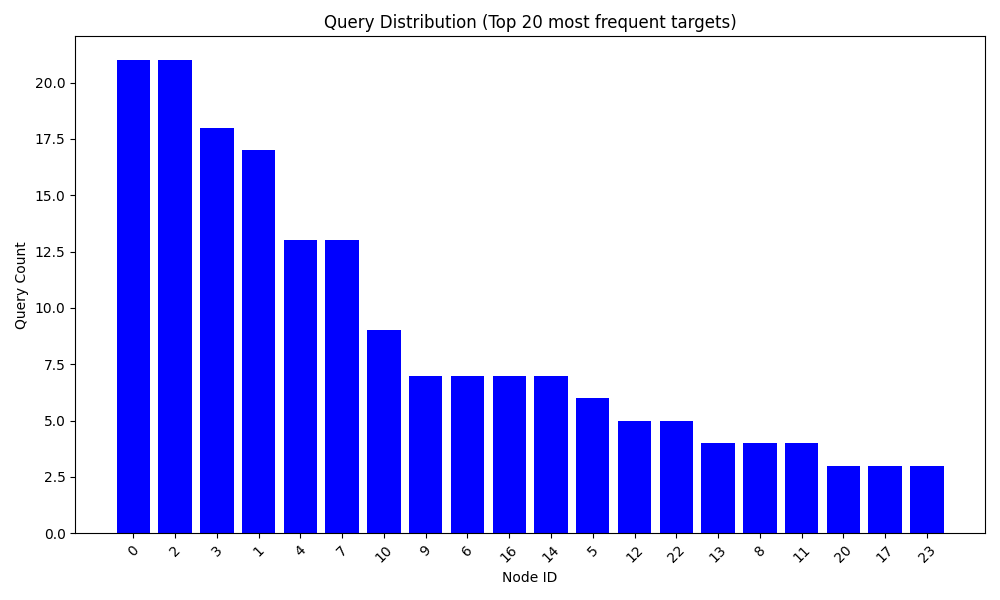
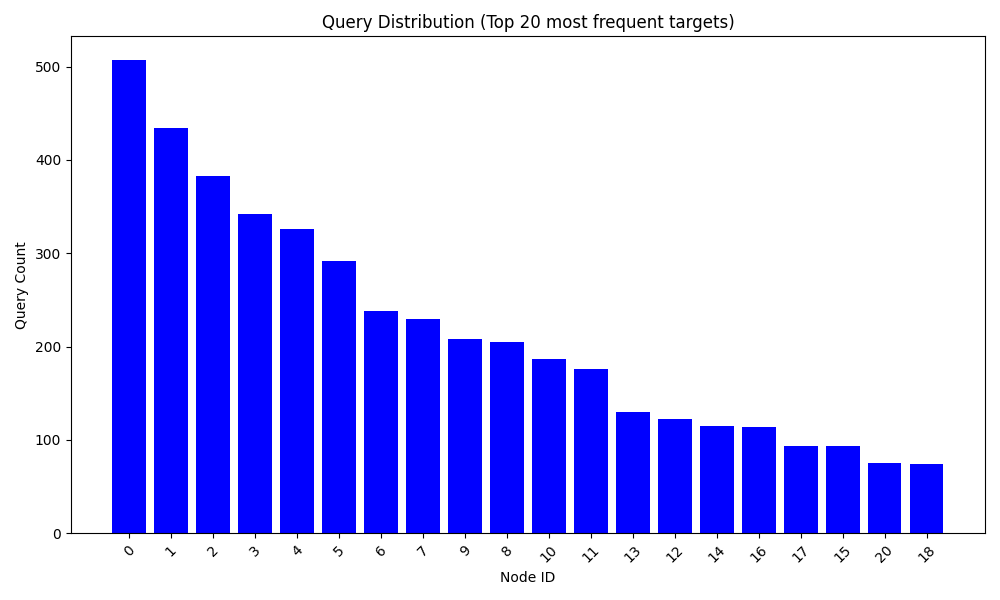
5000 queries when testing graph. added backsteps for nodes > 50

diff --git a/bogoDB/candidate_submission/optimize_graph.py b/bogoDB/candidate_submission/optimize_graph.py
@@ -100,8 +100,11 @@ def optimize_graph(
     # TODO: Implement your optimization strategy here
 
     for node, edges in initial_graph.items():
+        # This is the node next in the line
         next_node = (int(node) + 1) % 500
         new_edge = {next_node: 1}
+        if next_node != 0 and int(node) > 50:
+            new_edge[0] = 0.4
         optimized_graph[node] = new_edge
     # =============================================================
     #

diff --git a/bogoDB/scripts/constants.py b/bogoDB/scripts/constants.py
@@ -14,7 +14,7 @@ MAX_EDGES_PER_NODE = 3
 MAX_TOTAL_EDGES = 2 * NUM_NODES
 
 # Query parameters
-NUM_QUERIES = 200
+NUM_QUERIES = 5000
 LAMBDA_PARAM = 0.1
 MAX_DEPTH = 10000
 

diff --git a/solution.md b/solution.md
@@ -5,7 +5,8 @@
 
 [Describe how you analyzed the query patterns and what insights you found]
 
-latex test $\int_0^1$
+generate_initial_data.py gives the distribution of queries which is:
+exp_values = np.random.exponential(scale=1 / lambda_param, size=num_queries)
 
 ### Optimization Strategy
 
